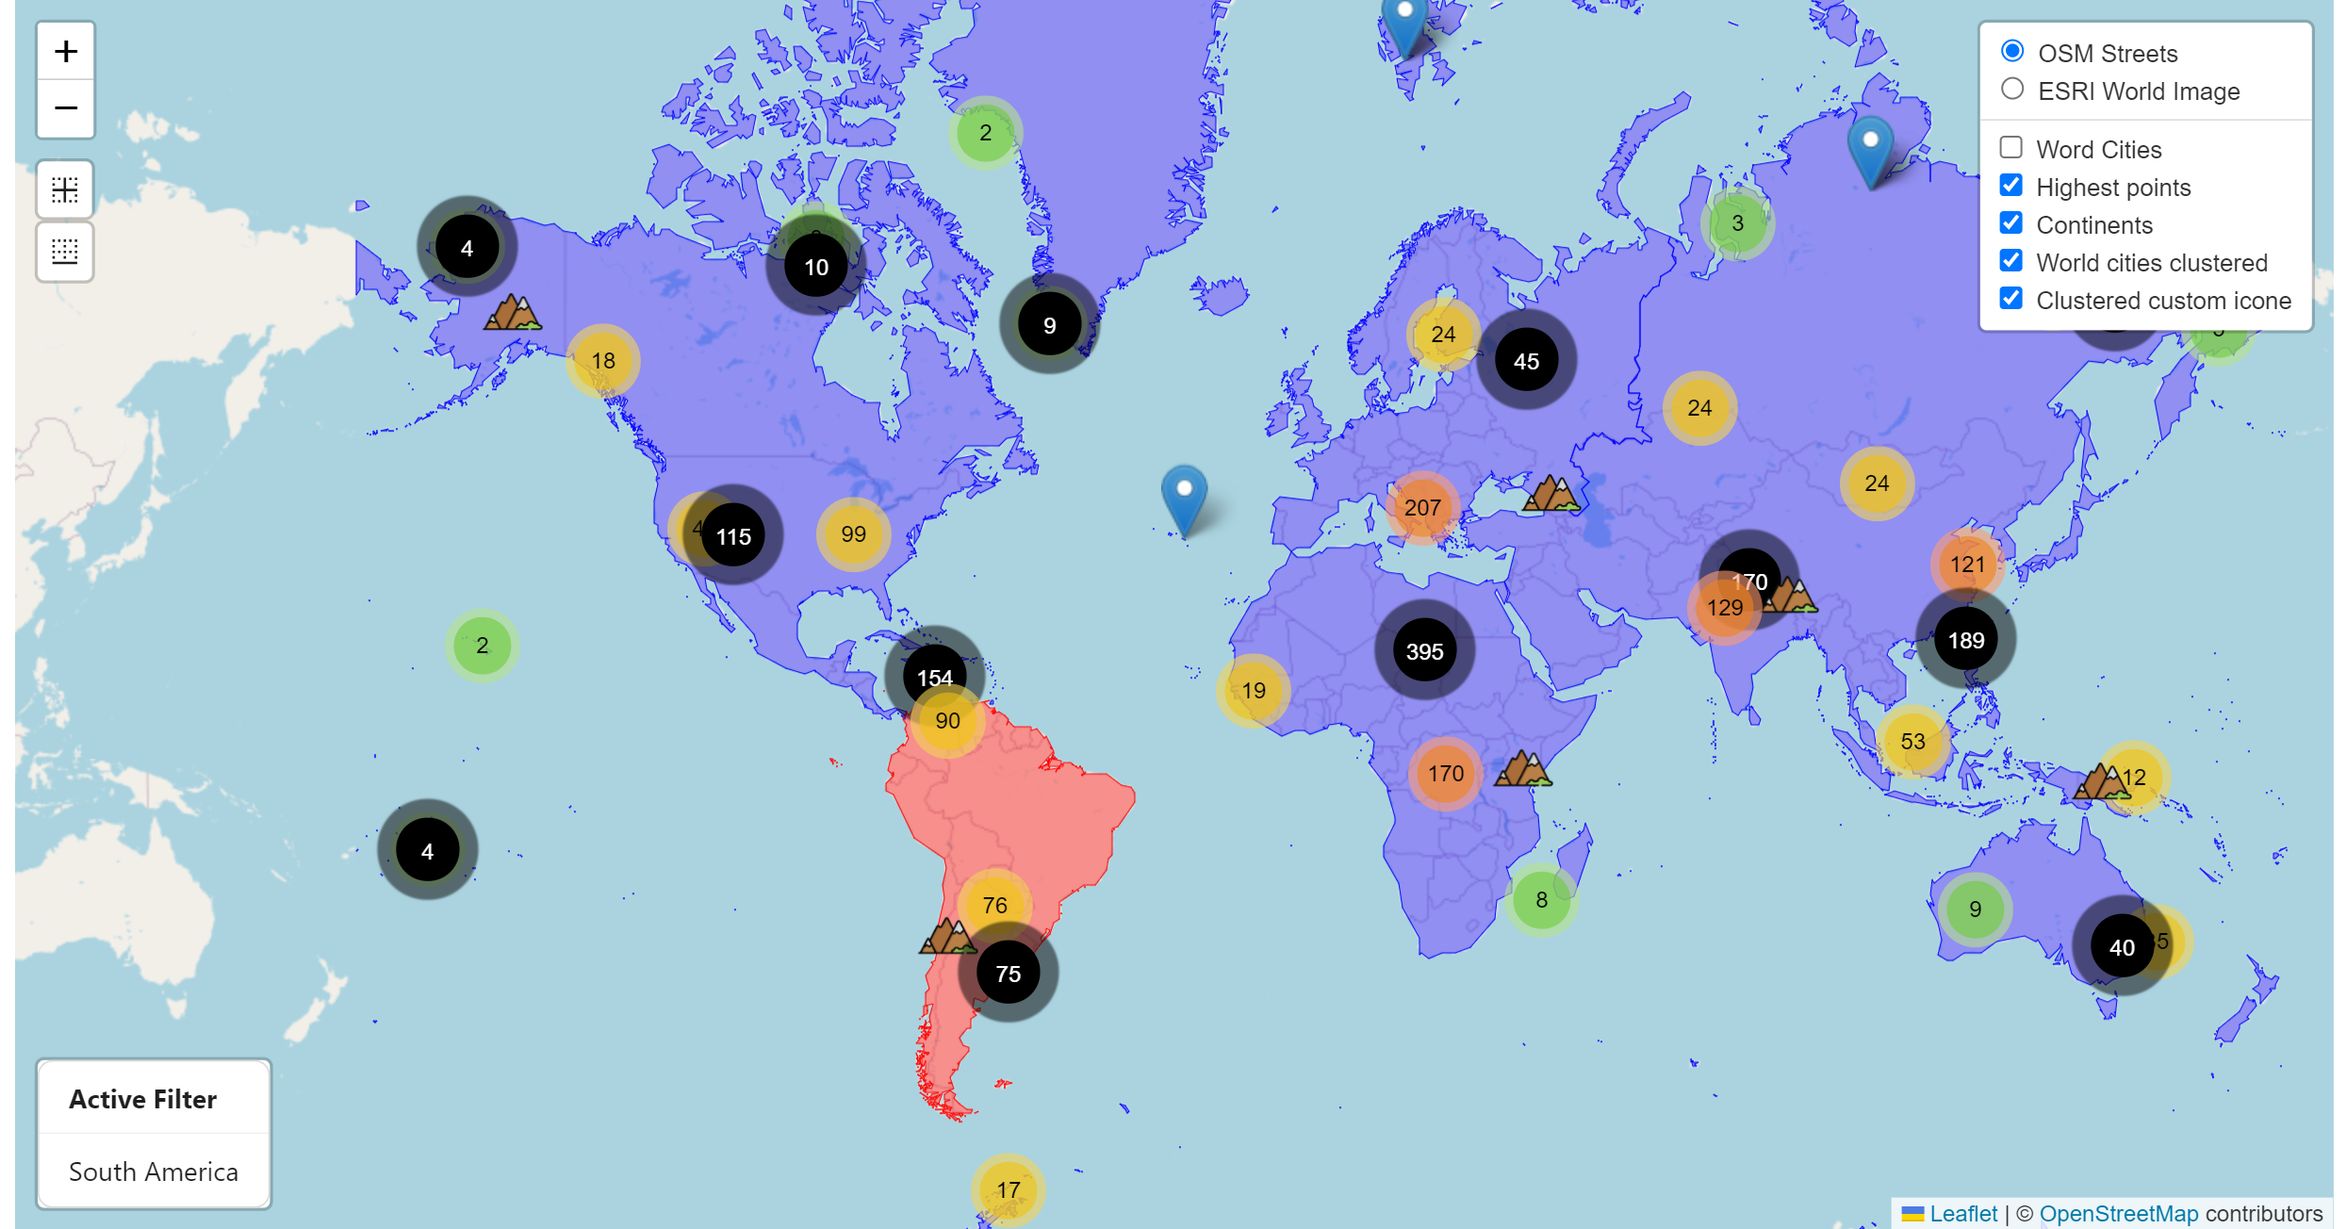
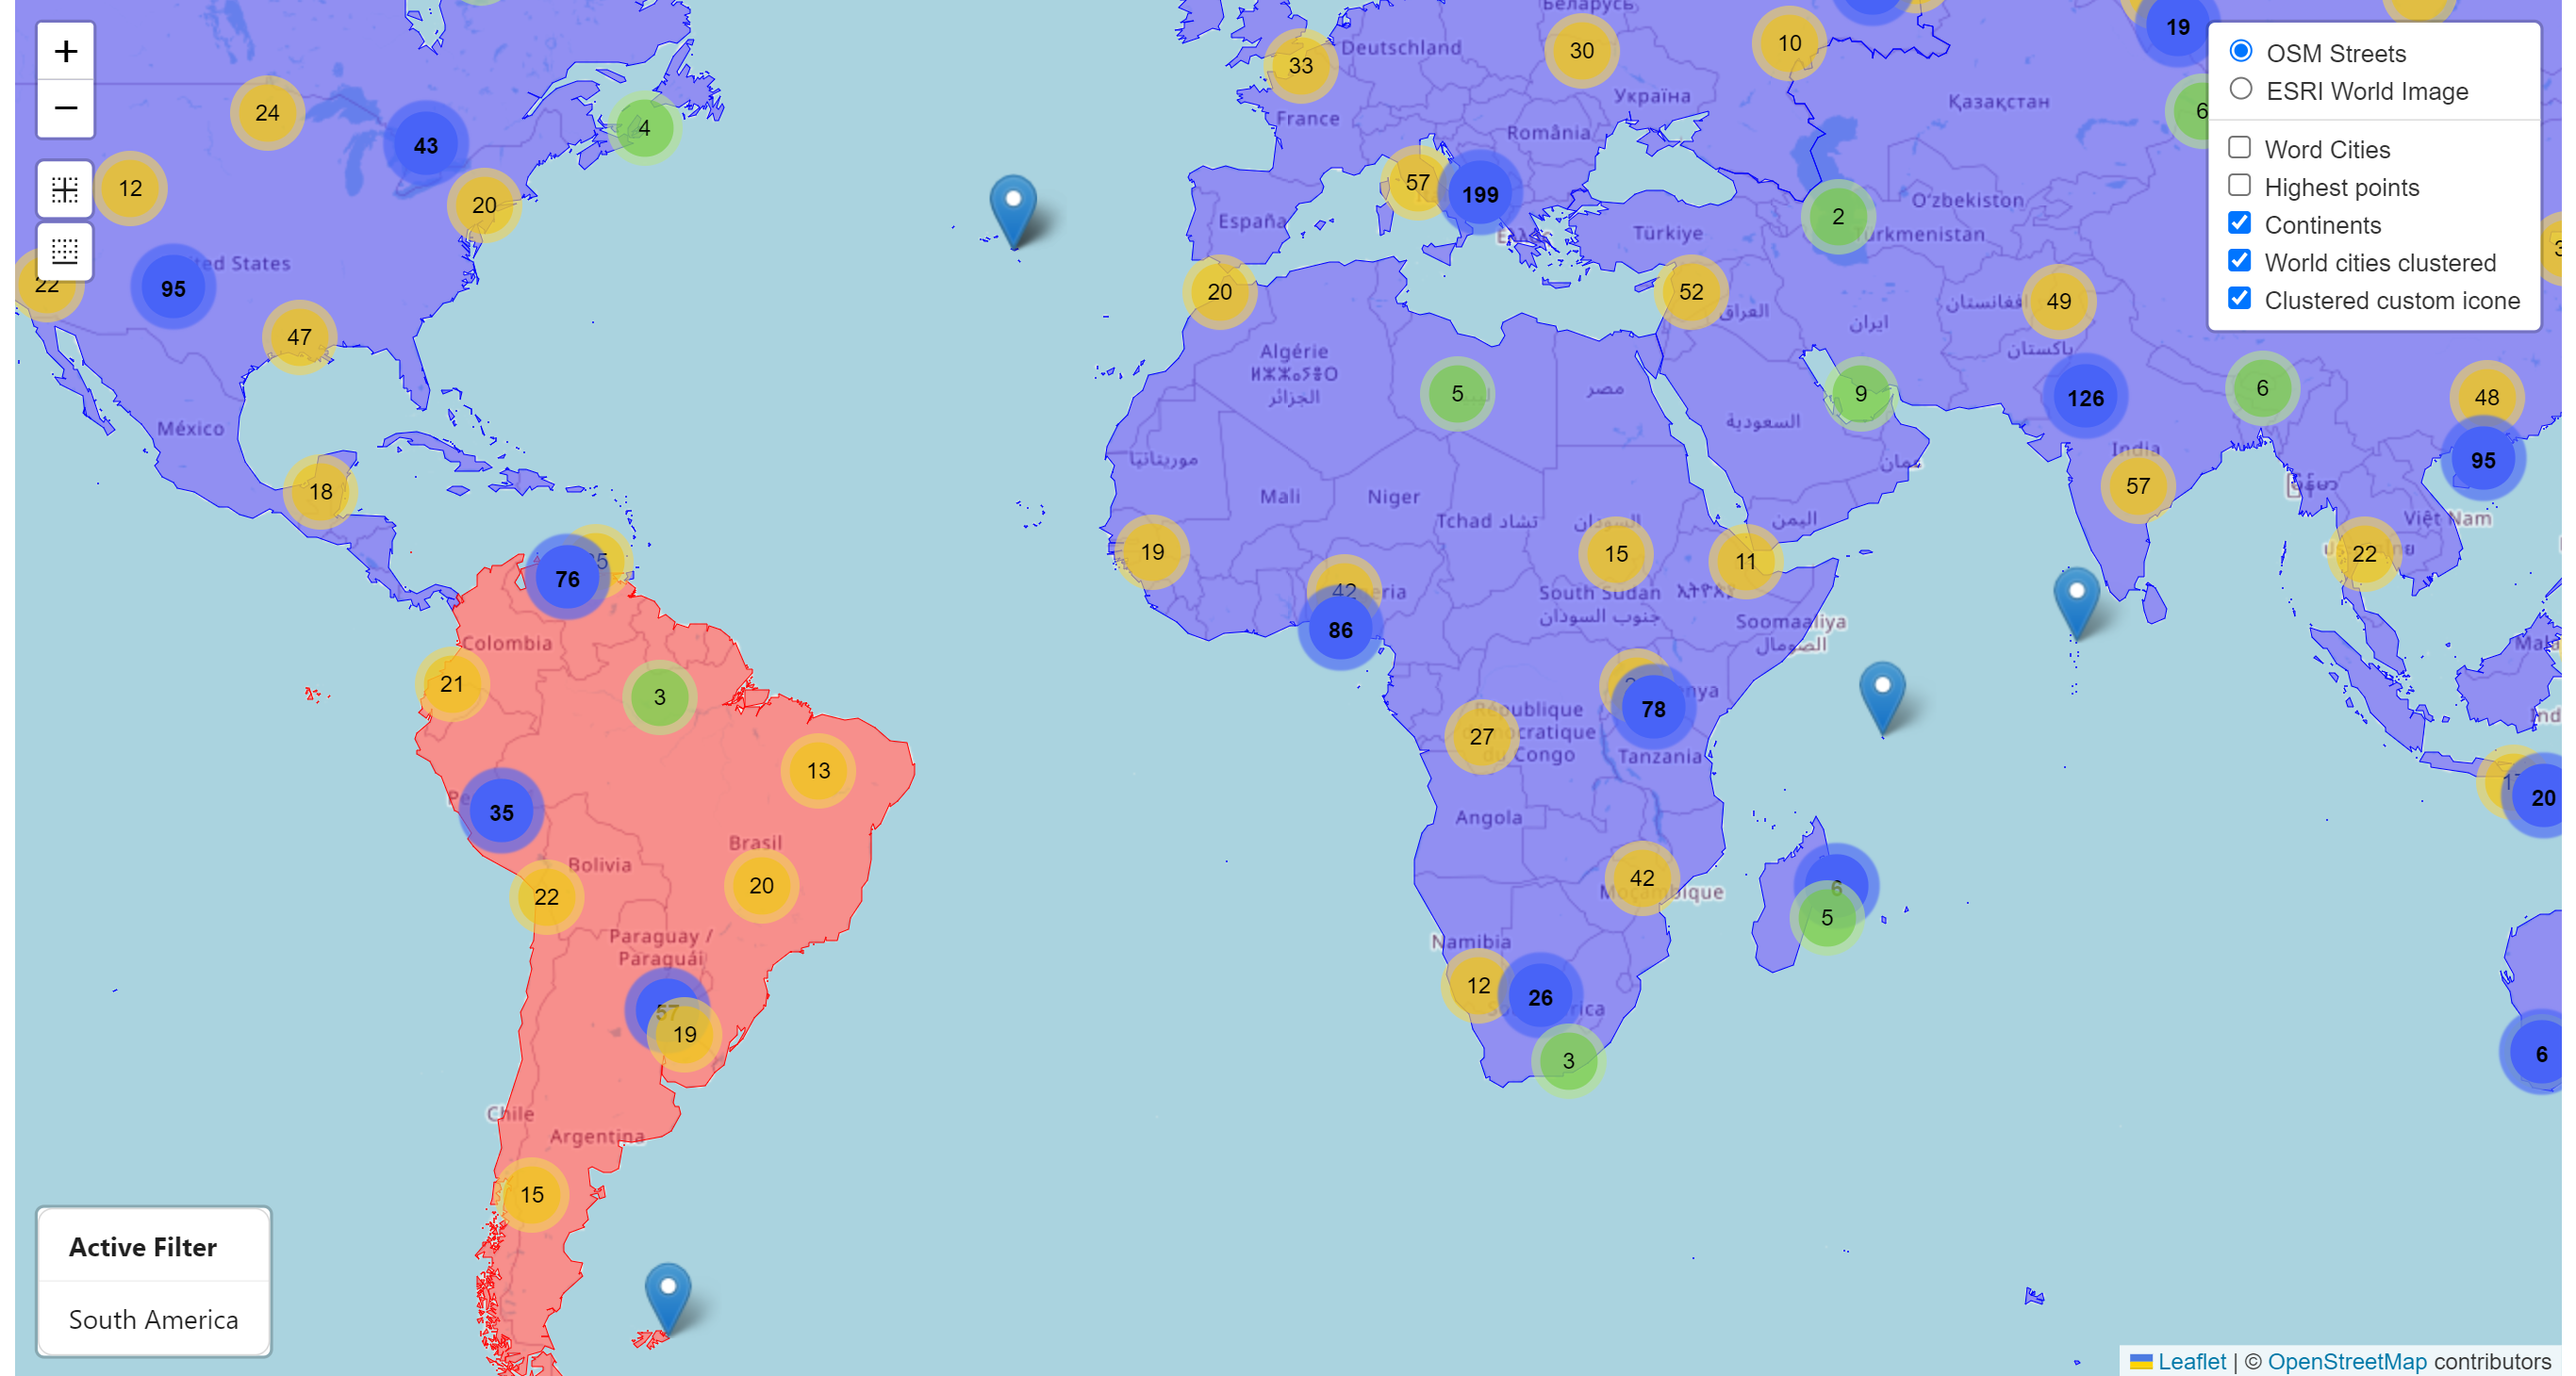
feat: altera cor ícone custom

diff --git a/src/Map/Map.css b/src/Map/Map.css
@@ -15,12 +15,11 @@
   }
   
   .custom-marker-cluster {
-    background: #000;
-    box-shadow: 0px 0px 1px 10px rgb(0 0 0 / 50%);
+    background: #4863f7;
+    box-shadow: 0px 0px 1px 6px rgb(72 99 247 / 63%);
     border-radius: 50%;
-    color: #FFF;
-    height: 33px;
+    color: #000;
     line-height: 37px;
     text-align: center;
-    width: 33px;
+    font-weight: 700;
 }
